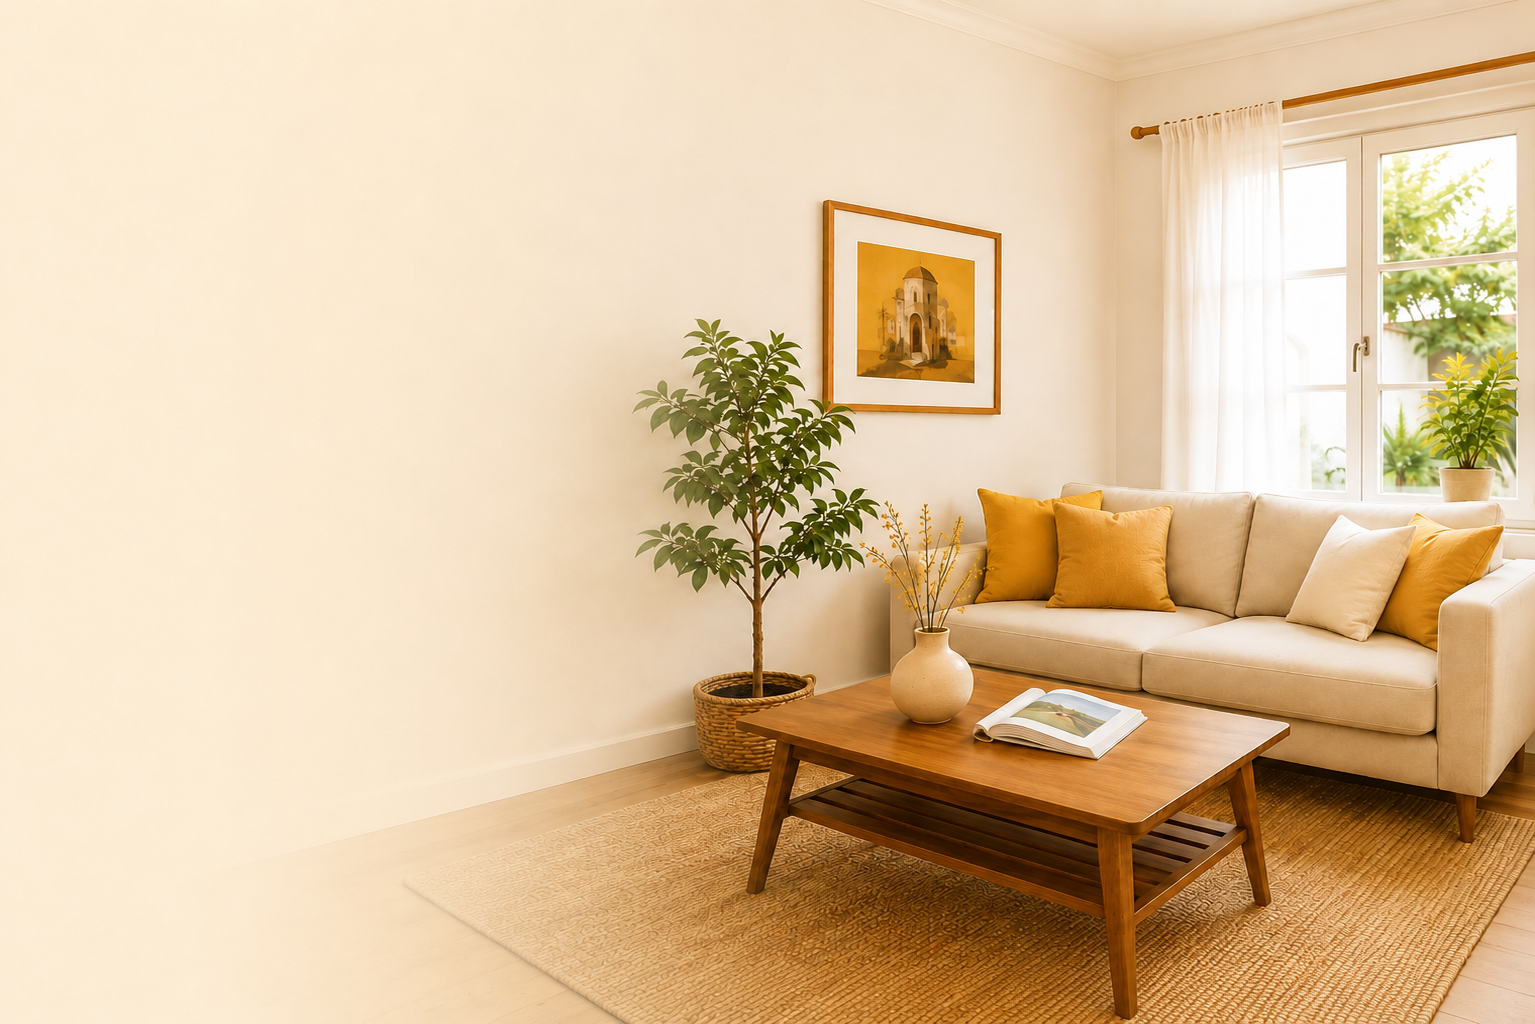
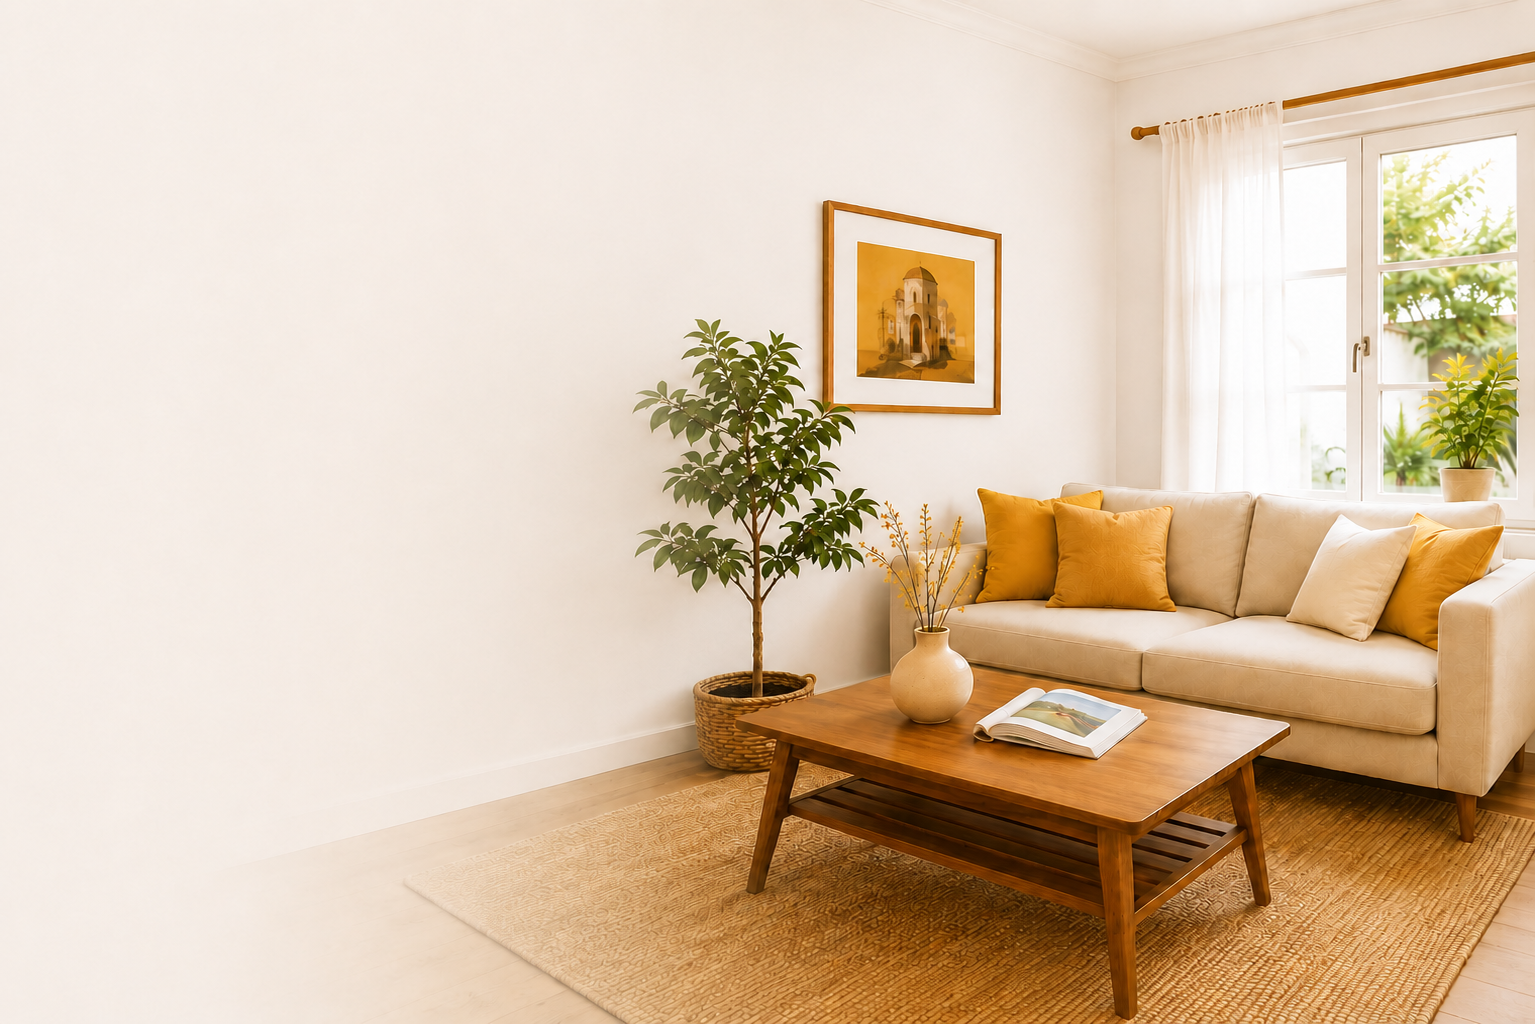
refactor: colors

diff --git a/proyecto-inmobiliaria/frontend/src/app/globals.css b/proyecto-inmobiliaria/frontend/src/app/globals.css
@@ -1,14 +1,14 @@
 @import "tailwindcss";
 
 @theme {
-  --color-cream: #fcedd5;
-  --color-cream-soft: #fcf8ee;
-  --color-fade: #fcedd5;
-  --color-gold: #e8b414;
-  --color-gold-dark: #cfa10d;
-  --color-charcoal: #262626;
+  --color-cream: #f5eee1;
+  --color-cream-soft: #faf5eb;
+  --color-fade: #f5eee1;
+  --color-gold: #f0bc1e;
+  --color-gold-dark: #e0ad10;
+  --color-charcoal: #2b2a25;
   --color-ink: #1e1e1e;
-  --color-line: #e4dcc8;
+  --color-line: #e6ddc6;
 
   --font-sans: var(--font-inter);
 }

diff --git a/proyecto-inmobiliaria/frontend/src/components/layout/Header.tsx b/proyecto-inmobiliaria/frontend/src/components/layout/Header.tsx
@@ -10,7 +10,7 @@ const NAV_ITEMS = [
 
 export default function Header() {
   return (
-    <header className="sticky top-0 z-50 bg-cream/90 backdrop-blur">
+    <header className="sticky top-0 z-50 bg-cream/70 backdrop-blur">
       <div className="flex h-28 items-center justify-between px-6 sm:px-12 lg:px-16">
         <Link href="/" className="ml-4 flex translate-y-2 items-center sm:ml-5 lg:ml-6" aria-label="Vilanova Propiedades">
           <Image
